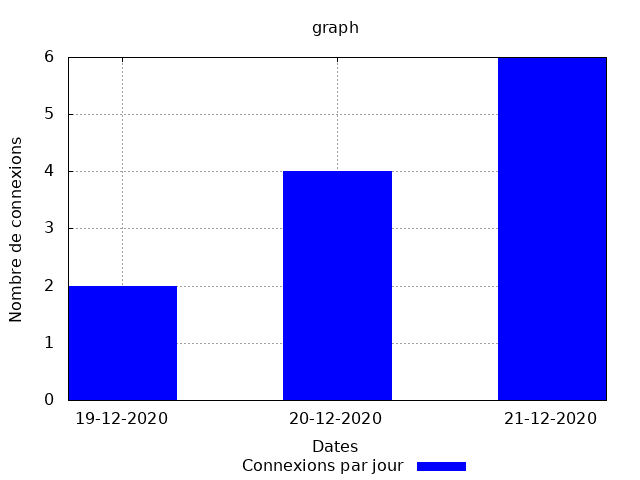
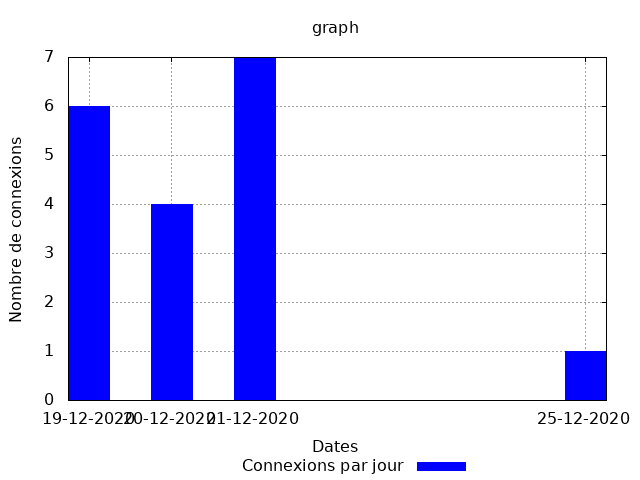
nouveau tri dans Extraction

diff --git a/Scripts_Louan/ExtractionDonnee.php b/Scripts_Louan/ExtractionDonnee.php
@@ -10,37 +10,32 @@ enlever les "" dans la date_format
     $DataNorm="donnees";
     $DataTemp="donneesVrac";
     $dirCSV="$dossier_de_travail/$dir_out/CSV";
+    $dirJSON="$dossier_de_travail/$dir_out/JSON";
+    $dirAPACHE="$dossier_de_travail/$dir_out/APACHE";
+
 
     while(true){
         if(is_dir("$dossier_de_travail/$dir_out")){
-            echo "fopen\n";
+            echo "création des fichiers de travail\n";
             fopen("$dossier_de_travail/$dir_out/$DataTemp", "w");
             fopen("$dossier_de_travail/$dir_out/$DataNorm", "w");
             
-            echo "scandir\n";
+            echo "Scan du dossier $dirCSV\n";
             $CSV= scandir($dirCSV);
+            echo"Recuperation des donnees\n";
 
-            echo "print_r\n";
-            print_r($CSV);
-            
-            echo"\n";
-
-            echo"foreach 1\n";
             foreach($CSV as $nomFic){
 
-                echo"if 1\n";
+                
                 if ("${nomFic}" != "." && "${nomFic}" != ".."){
 
-                    echo "explode 1\n";
+                    
                     $parts= explode(".",$nomFic);
                     print_r("$parts");
 
-                    echo"if 2\n";
                     if("$parts[1]"=="csv"){
                         $contenuFicCSV=file("$dirCSV/$nomFic");
-                        print_r("$contenuFicCSV");
 
-                        echo"foreach 2\n";
                         foreach($contenuFicCSV as $ligne){
                             echo "$ligne\n";
                             $ligne= explode(";", $ligne);
@@ -69,32 +64,118 @@ enlever les "" dans la date_format
                 }
                 
             }
+            echo "Donnees CSV recuperees\n";
+
+            echo "/*/*/*/*/*/*/*/*/*/*/*/*/*/*/*//* JSON /*/*/*/*/*/*/*/*/*/*/*/*/*/*/*//*\n";
+            $JSON=scandir($dirJSON);
+            echo "JSON= \n";
+            print_r($JSON);
+
+            foreach ($JSON as $nomFic){
+                if ("${nomFic}" != "." && "${nomFic}" != ".."){
+
+                    $parts= explode(".",$nomFic);
+
+                    if("$parts[1]"=="json"){
+                        $contenuFicJSON=file("$dirJSON/$nomFic");
+                        echo "contenu fic JSON= \n";
+                        print_r($contenuFicJSON);
+
+                       $indiceDate=2;
+                       $indiceIP=3;
+                       $nbElementContenuFicJSON=count($contenuFicJSON);
+
+                        while($indiceDate<$nbElementContenuFicJSON){
+                            echo "date= $contenuFicJSON[$indiceDate]\n";
+                            $date= explode(":", $contenuFicJSON[$indiceDate]);
+                            $date= $date[1];
+                            $date= str_replace('"', '', $date);
+                            $date= str_replace('/', '-', $date);
+                            $date= str_replace('Dec', '12', $date);
+
+                            $date= trim($date);
+                        
+                            echo "ip= $contenuFicJSON[$indiceIP]\n";
+                            $ip= explode(":", $contenuFicJSON[$indiceIP]);
+                            $ip= $ip[1];
+                            $ip= str_replace('"', '', $ip);
+                            $ip= str_replace(',', '', $ip);
+                            $ip= trim($ip);
+                            
+                            if ("$date"!=""){
+                                echo "$ip $date\n";
+                                file_put_contents("$dossier_de_travail/$dir_out/$DataTemp", "$ip $date\n", FILE_APPEND);
+                            }
+                            $indiceDate+=12;
+                            $indiceIP+=12;
+                        }
+                            
+                            
+                    } 
+                }
+            }
+            
+            echo "/*/*/*/*/*/*/*/*/*/*/*/*/*/*/*//* APACHE /*/*/*/*/*/*/*/*/*/*/*/*/*/*/*//*\n";
+            $APACHE=scandir($dirAPACHE);
+            echo "APACHE= \n";
+            print_r($APACHE);
+
+            foreach ($APACHE as $nomFic){
+                if ("${nomFic}" != "." && "${nomFic}" != ".."){
+
+                    $parts= explode(".",$nomFic);
+
+                    if("$parts[1]"=="apache"){
+                        $contenuFicAPACHE=file("$dirAPACHE/$nomFic");
+                        echo "contenu fic APACHE= \n";
+                        print_r($contenuFicAPACHE);
+
+                        foreach($contenuFicAPACHE as $ligne){
+                            $ligne= explode("]", $ligne);
+
+                            $date= explode("[", $ligne[0]);
+                            $date= explode(":", $date[1]);
+                            $date= str_replace('/', '-', $date);
+                            $date= str_replace('Dec', '12', $date);
+                            $date= trim($date[0]);
+                            echo "date= $date\n";
+                        
+                            $ip=explode("-", $ligne[0]);
+                            $ip= trim($ip[0]);
+                            echo "ip= $ip\n";
+                            
+                            if ("$date"!=""){
+                                echo "$ip $date\n";
+                                file_put_contents("$dossier_de_travail/$dir_out/$DataTemp", "$ip $date\n", FILE_APPEND);
+                            }
+                        }
+                            
+                            
+                    } 
+                }
+            }
+
 
             $DataTempLog= file("$dossier_de_travail/$dir_out/$DataTemp");
 
             echo "fichier avant tri:\n";
             print_r($DataTempLog);
+            $nbLignes=count($DataTempLog);
 
             echo "///////////////////////tri//////////////////////////\n";
-            foreach($DataTempLog as $indice => $ligne){
-                echo "indice= $indice\n";
-                foreach($DataTempLog as $test => $compare){
-                    echo "test= $test\n";
-                    if($test>$indice){
-                        echo "if passé\n";
-                        $parts1= explode(" ", $ligne);
-                        $parts2= explode(" ", $compare);
-                        if (strcmp($parts1[1],$parts2[1])>=0){
-                            $IndiceLignePlusPetite=$test;
-                            echo "indice petite= $test\n";
-                        } 
-                    }
-                    
+            for($i=0; $i<$nbLignes-1; $i+=1){
+                for($j=0; $j<$nbLignes-1-$i; $j++){
+                    $parts1= explode(" ", $DataTempLog[$j]);
+                    $parts2= explode(" ", $DataTempLog[$j+1]);
+                    if (strcmp($parts1[1],$parts2[1])>=0){
+
+                        $temp=$DataTempLog[$j];
+                        $DataTempLog[$j]=$DataTempLog[$j+1];
+                        $DataTempLog[$j+1]=$temp;
+                    } 
                 }
-                $temp=$DataTempLog[$indice];
-                $DataTempLog[$indice]=$DataTempLog[$IndiceLignePlusPetite];
-                $DataTempLog[$IndiceLignePlusPetite]=$temp;
             }
+
 
             echo "fichier apres tri:\n";
             print_r($DataTempLog);
